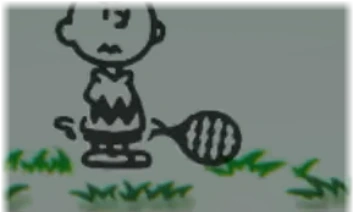
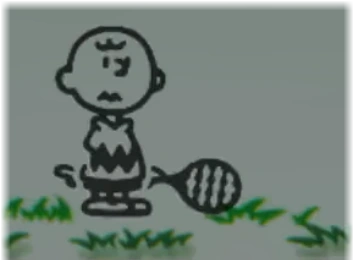
Miss animation: don't clip the top of Charlie's head in the middle poses
Claude-Session: https://claude.ai/code/session_01F9zz5Cnvdqt99eQ18sZoej

Changed region(s): [[0.0, 0.0, 0.9944, 0.9623]]

diff --git a/snoopy-tennis/index.html b/snoopy-tennis/index.html
@@ -137,7 +137,7 @@ html,body{margin:0;height:100%;background:radial-gradient(ellipse at 50% 45%,#3b
 <script>
 (()=>{
 "use strict";
-const ATLAS={"ch_ball":{"x":0,"y":370,"w":290,"h":262},"ch_toss":{"x":0,"y":370,"w":290,"h":262},"ch_idle":{"x":0,"y":370,"w":290,"h":262},"ch_pow":{"x":0,"y":370,"w":290,"h":262},"lu_up":{"x":0,"y":95,"w":230,"h":250},"lu_idle":{"x":0,"y":95,"w":230,"h":250},"lu_swing":{"x":0,"y":95,"w":230,"h":250},"sn_top_idle":{"x":560,"y":95,"w":437,"h":505},"sn_mid_idle":{"x":560,"y":95,"w":437,"h":505},"sn_bot_idle":{"x":560,"y":95,"w":437,"h":505},"sn_top_up":{"x":560,"y":95,"w":437,"h":505},"sn_top_swing":{"x":560,"y":95,"w":437,"h":505},"sn_bot_swing":{"x":560,"y":95,"w":437,"h":505},"sn_bot_up":{"x":560,"y":95,"w":437,"h":505},"sn_mid_up":{"x":560,"y":95,"w":437,"h":505},"sn_mid_swing":{"x":560,"y":95,"w":437,"h":505},"miss_txt":{"x":464,"y":4,"w":100,"h":40},"bird1":{"x":480,"y":46,"w":82,"h":71},"bird2":{"x":557,"y":46,"w":81,"h":71},"letterA":{"x":128,"y":590,"w":38,"h":38},"digits":{"ones":{"x":310,"y":0,"w":62,"h":100},"pitch":62,"h1":{"x":178,"y":0,"w":56,"h":100}},"pos":[[196.8,294.6],[198.2,133.6],[207.5,204.7],[273.6,345.0],[296.7,314.4],[296.9,375.1],[297.6,264.0],[301.0,213.4],[308.9,128.2],[344.0,311.6],[354.0,221.5],[377.3,375.0],[404.4,344.1],[405.4,129.8],[406.0,291.0],[410.5,233.4],[411.9,186.2],[460.2,382.1],[472.9,278.3],[474.7,162.5],[507.8,136.6],[508.3,378.8],[508.4,253.9],[544.9,405.1],[551.9,147.7],[611.8,276.6],[613.3,430.5],[618.7,147.8]],"sn_sleep":{"x":560,"y":95,"w":437,"h":505},"ch_away":{"x":0,"y":370,"w":290,"h":262},"cm_idle":{"x":296,"y":420,"w":354,"h":212},"cm_throw":{"x":296,"y":420,"w":354,"h":212},"crash":{"x":787,"y":117,"w":217,"h":229}};
+const ATLAS={"ch_ball":{"x":0,"y":370,"w":290,"h":262},"ch_toss":{"x":0,"y":370,"w":290,"h":262},"ch_idle":{"x":0,"y":370,"w":290,"h":262},"ch_pow":{"x":0,"y":370,"w":290,"h":262},"lu_up":{"x":0,"y":95,"w":230,"h":250},"lu_idle":{"x":0,"y":95,"w":230,"h":250},"lu_swing":{"x":0,"y":95,"w":230,"h":250},"sn_top_idle":{"x":560,"y":95,"w":437,"h":505},"sn_mid_idle":{"x":560,"y":95,"w":437,"h":505},"sn_bot_idle":{"x":560,"y":95,"w":437,"h":505},"sn_top_up":{"x":560,"y":95,"w":437,"h":505},"sn_top_swing":{"x":560,"y":95,"w":437,"h":505},"sn_bot_swing":{"x":560,"y":95,"w":437,"h":505},"sn_bot_up":{"x":560,"y":95,"w":437,"h":505},"sn_mid_up":{"x":560,"y":95,"w":437,"h":505},"sn_mid_swing":{"x":560,"y":95,"w":437,"h":505},"miss_txt":{"x":464,"y":4,"w":100,"h":40},"bird1":{"x":480,"y":46,"w":82,"h":71},"bird2":{"x":557,"y":46,"w":81,"h":71},"letterA":{"x":128,"y":590,"w":38,"h":38},"digits":{"ones":{"x":310,"y":0,"w":62,"h":100},"pitch":62,"h1":{"x":178,"y":0,"w":56,"h":100}},"pos":[[196.8,294.6],[198.2,133.6],[207.5,204.7],[273.6,345.0],[296.7,314.4],[296.9,375.1],[297.6,264.0],[301.0,213.4],[308.9,128.2],[344.0,311.6],[354.0,221.5],[377.3,375.0],[404.4,344.1],[405.4,129.8],[406.0,291.0],[410.5,233.4],[411.9,186.2],[460.2,382.1],[472.9,278.3],[474.7,162.5],[507.8,136.6],[508.3,378.8],[508.4,253.9],[544.9,405.1],[551.9,147.7],[611.8,276.6],[613.3,430.5],[618.7,147.8]],"sn_sleep":{"x":560,"y":95,"w":437,"h":505},"ch_away":{"x":0,"y":370,"w":290,"h":262},"cm_idle":{"x":296,"y":372,"w":354,"h":260},"cm_throw":{"x":296,"y":372,"w":354,"h":260},"crash":{"x":787,"y":117,"w":217,"h":229}};
 const cv=document.getElementById('cv'),ctx=cv.getContext('2d');
 const W=997,H=632;
 ATLAS.bg={x:0,y:0,w:997,h:632};
